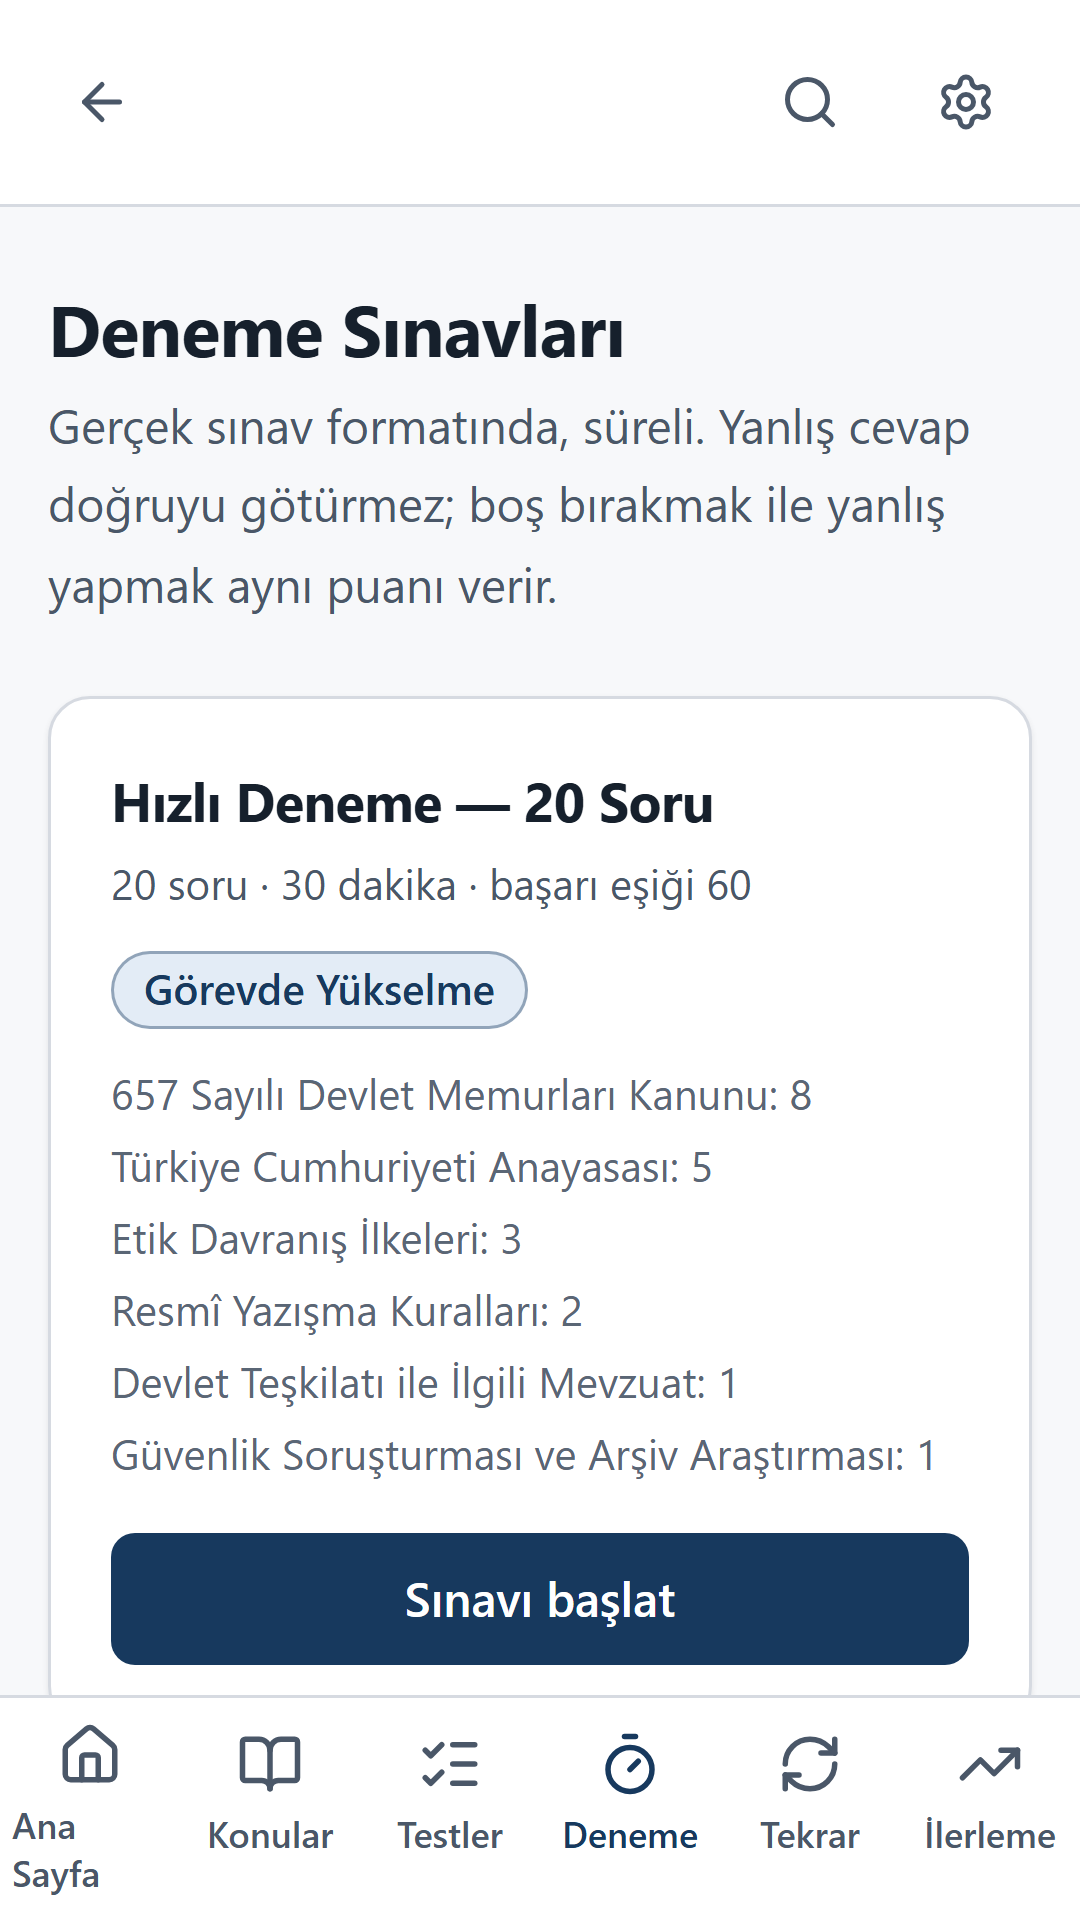
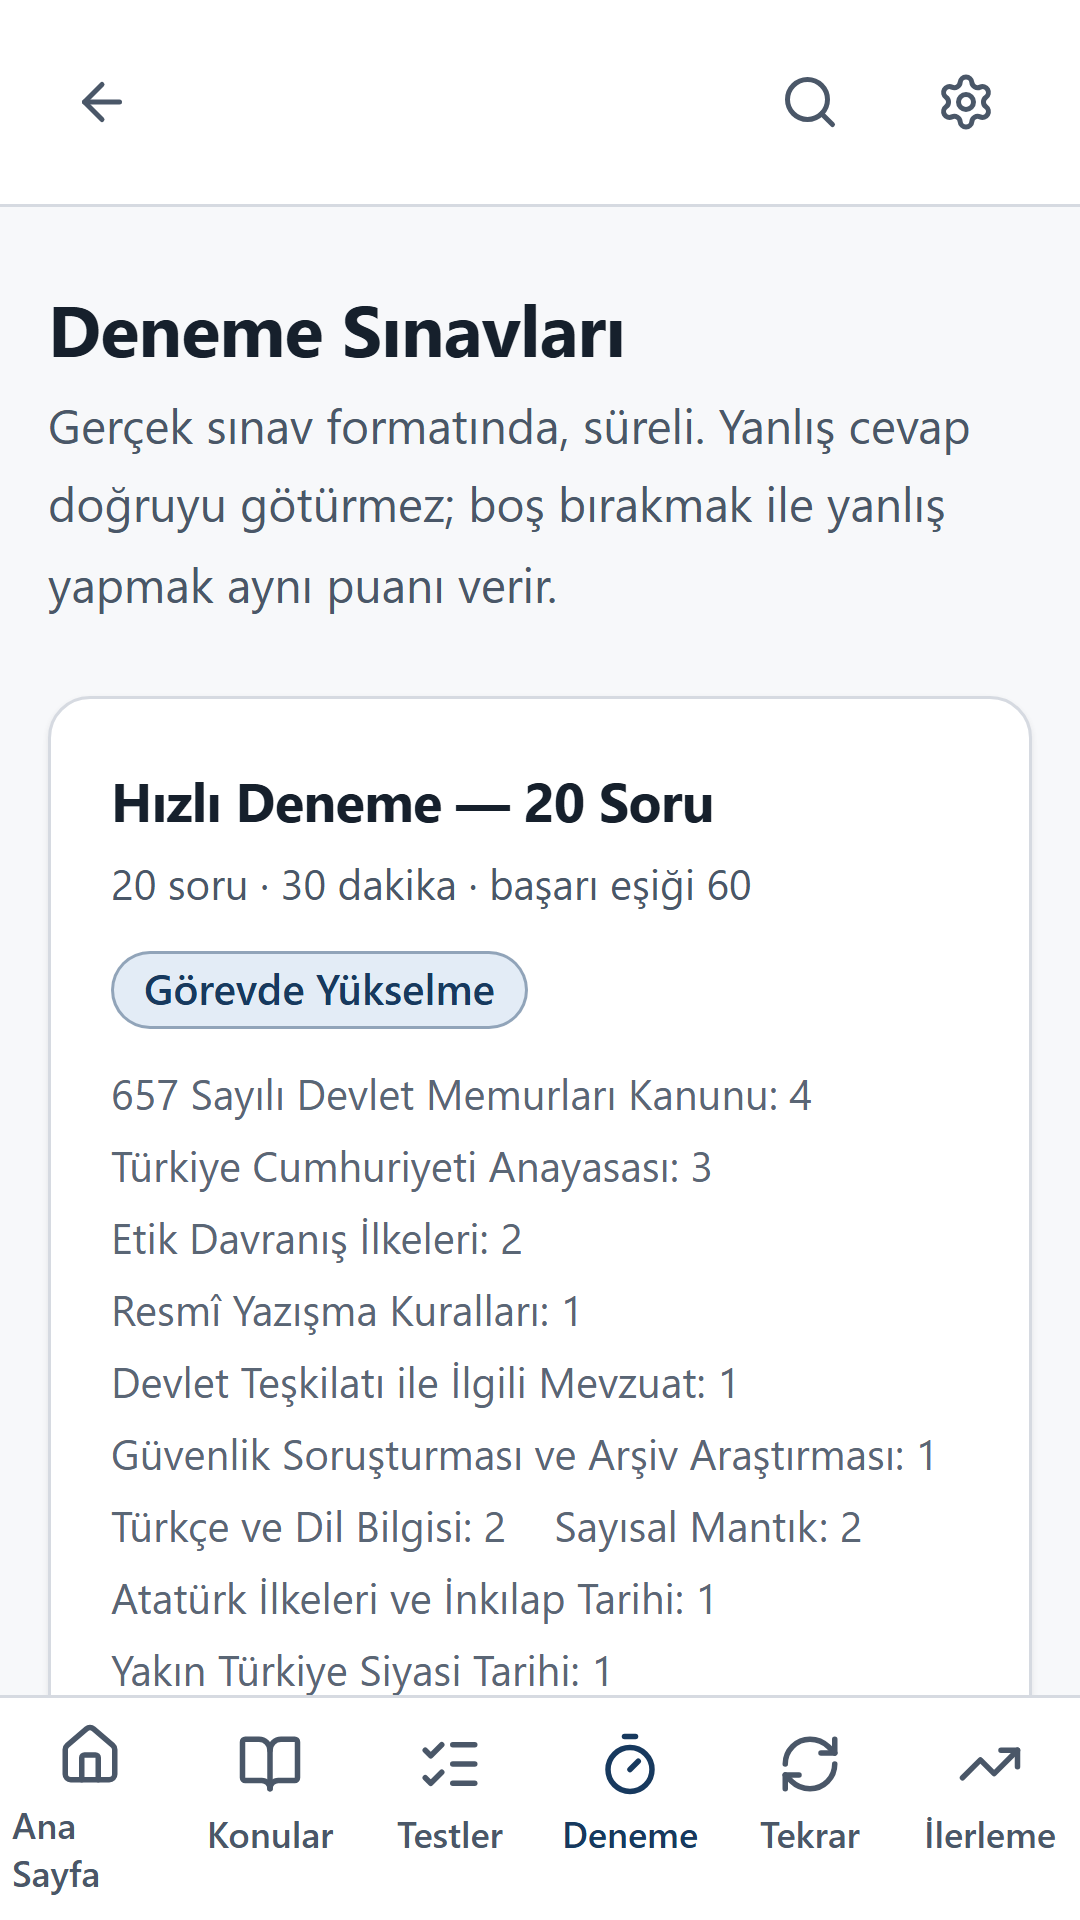
Surum adini 1.4.0'a yukselt, surum notunu yaz ve magaza goruntulerini tazele
Bu surumde kullaniciya donen degisiklik: alti genel kultur ve genel yetenek
dersi (Turkce, Sayisal Mantik, Ataturk Ilkeleri ve Inkilap Tarihi, Yakin
Turkiye Siyasi Tarihi, Turkiye Cografyasi, Klasiklesmis Edebi Eserler),
27 konu ozeti ve 270 soru; havuz 1440 -> 1710.

Surum notu 456 karakter (sinir 500). Ikinci madde bilerek duruyor: deneme
dagilimi 12 derse yayildigi icin mevzuat derslerinin payi dustu (unvan-50'de
657 DMK 17 -> 12). Duyurulmazsa mevzuata calisan kullanici denemenin
bozuldugunu sanar. Mevcut derslerin konu testleri DEGISMEDI, havuzlari ayni
kaldi; bu yuzden 1.3.0'daki test numarasi uyarisina karsilik bir madde yok.

Magaza ekran goruntuleri yeniden uretildi; bayt olarak yalnizca
04-deneme-sinavi.png degisti ve artik 12 dersin dagilimini gosteriyor.
Ana sayfa goruntusunun kadraji guven kartina inmiyor, digerleri ayni. Goruntuler ANAHTARSIZ
derlemeden alindi; .env.local'deki Supabase anahtarlari ortam degiskeni
bosaltilarak ezildi ve out/ icinde anahtarin gecmedigi dogrulandi. Baslikta
hesap ikonu yok.

versionCode elle artirilmadi; release is akisi onu run_number'dan geciyor.

diff --git a/store/listing-tr.md b/store/listing-tr.md
@@ -100,6 +100,24 @@ artık boşluk sınırsız değil; yeni ders eklerken yeniden sayın.
 
 ## Sürüm notları (en çok 500 karakter)
 
+### 1.4.0 — genel kültür ve genel yetenek dersleri
+
+```
+• 6 yeni ders: Türkçe, Sayısal Mantık, Atatürk İlkeleri ve İnkılap Tarihi,
+  Yakın Türkiye Siyasi Tarihi, Türkiye Coğrafyası ve Klasikleşmiş Edebî
+  Eserler. 27 konu özeti ve 270 yeni soru; havuz 1710 soruya ulaştı.
+• Deneme sınavları artık 12 dersin hepsinden soru içeriyor; bu yüzden mevzuat
+  derslerinin denemedeki soru sayısı azaldı.
+• Yeni derslerde cevabın altında kaynak, sayısal mantıkta adım adım çözüm yer
+  alır. Her yeni dersin ilk konusu ücretsiz.
+```
+
+⚠ **İkinci madde çıkarılmamalıdır.** Aynı 50 soruluk denemede 657 DMK
+17 sorudan 12'ye indi. Duyurulmazsa mevzuata çalışan kullanıcı denemenin
+"hafiflediğini" ya da bozulduğunu düşünür. Mevcut derslerin konu testleri
+DEĞİŞMEDİ (havuzları aynı kaldı), bu yüzden test numaralarına dair bir uyarı
+yoktur.
+
 ### 1.3.0 — güvenlik soruşturması denemelerde
 
 ```
